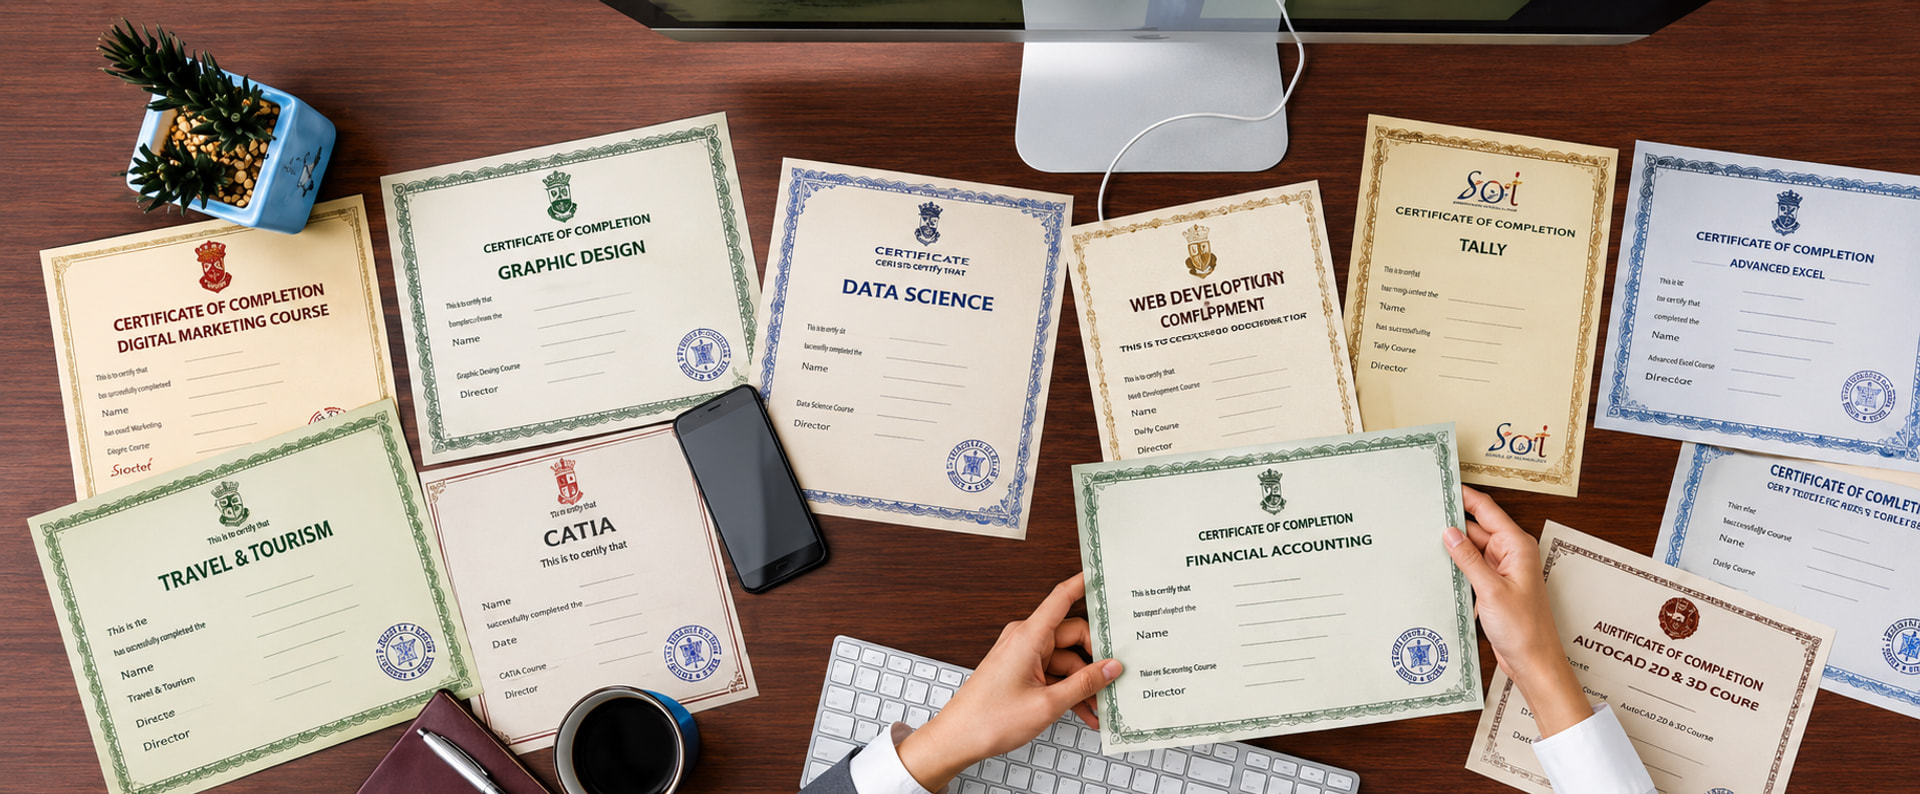
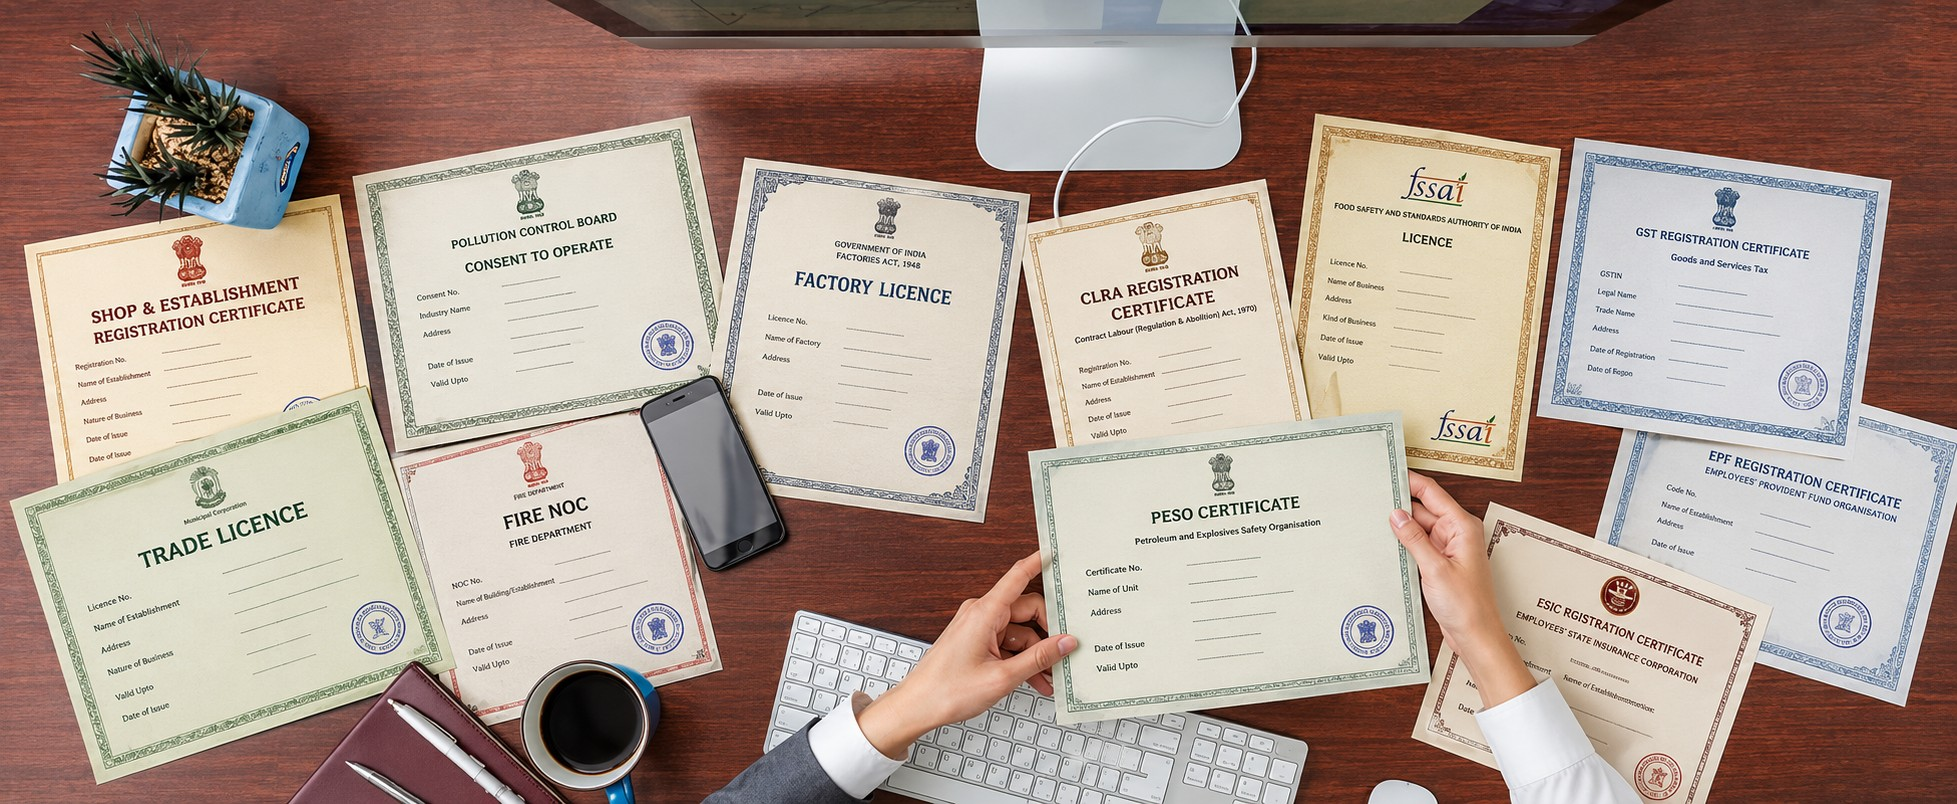
Replace third hero carousel slide image
Swap the certifications slide background for a new desk photo of
business licenses and registration certificates.

diff --git a/src/components/HeroSlider.tsx b/src/components/HeroSlider.tsx
@@ -32,7 +32,7 @@ const slides = [
   },
   {
     photo: "/hero/bg-revslider-home1-03.jpg",
-    alt: "Certificates of completion laid out on a desk",
+    alt: "Business licenses and registration certificates laid out on a desk",
     subtitle: "Build Trust With Every Certificate",
     titleMain: "Certifications",
     titleSecond: "Quality Standards",
